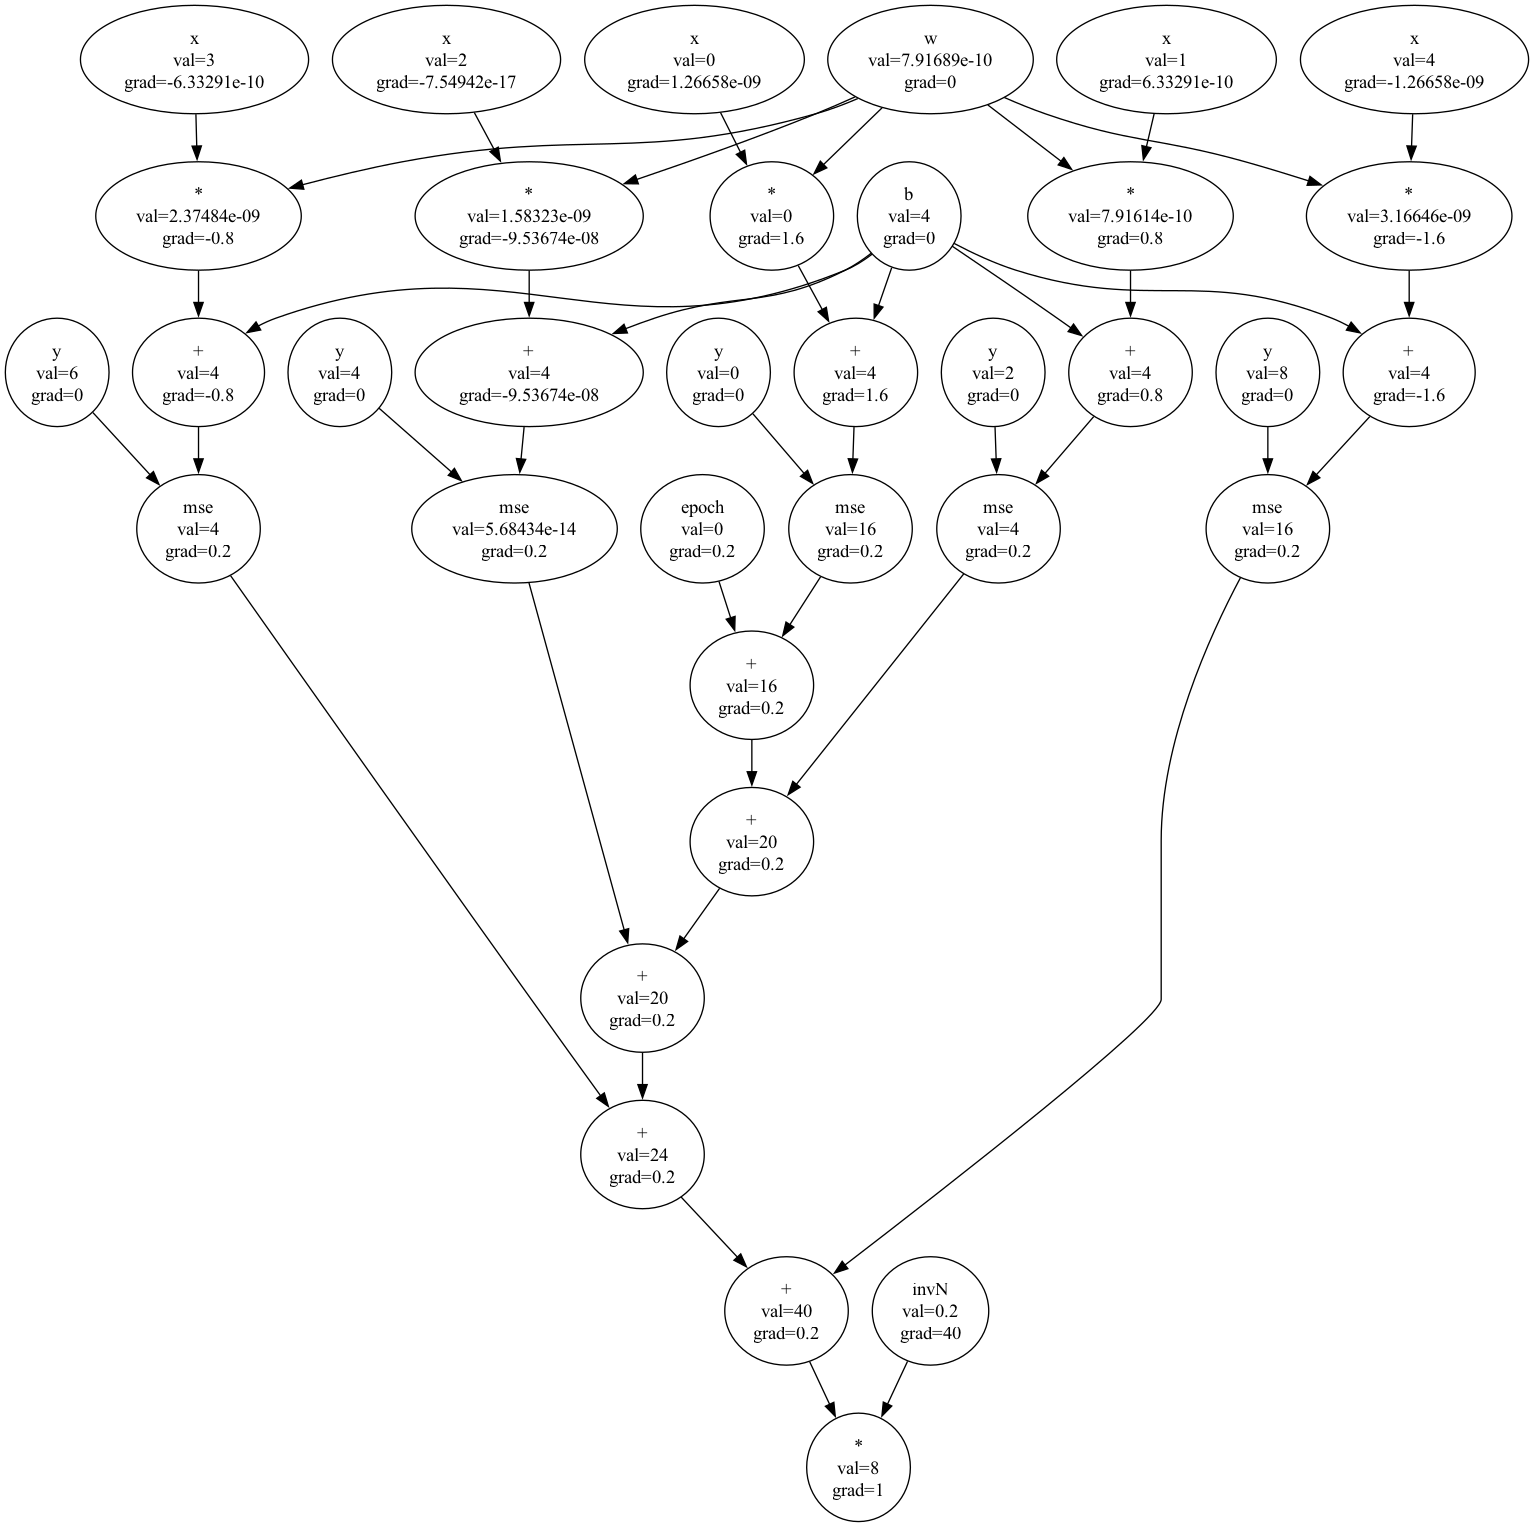
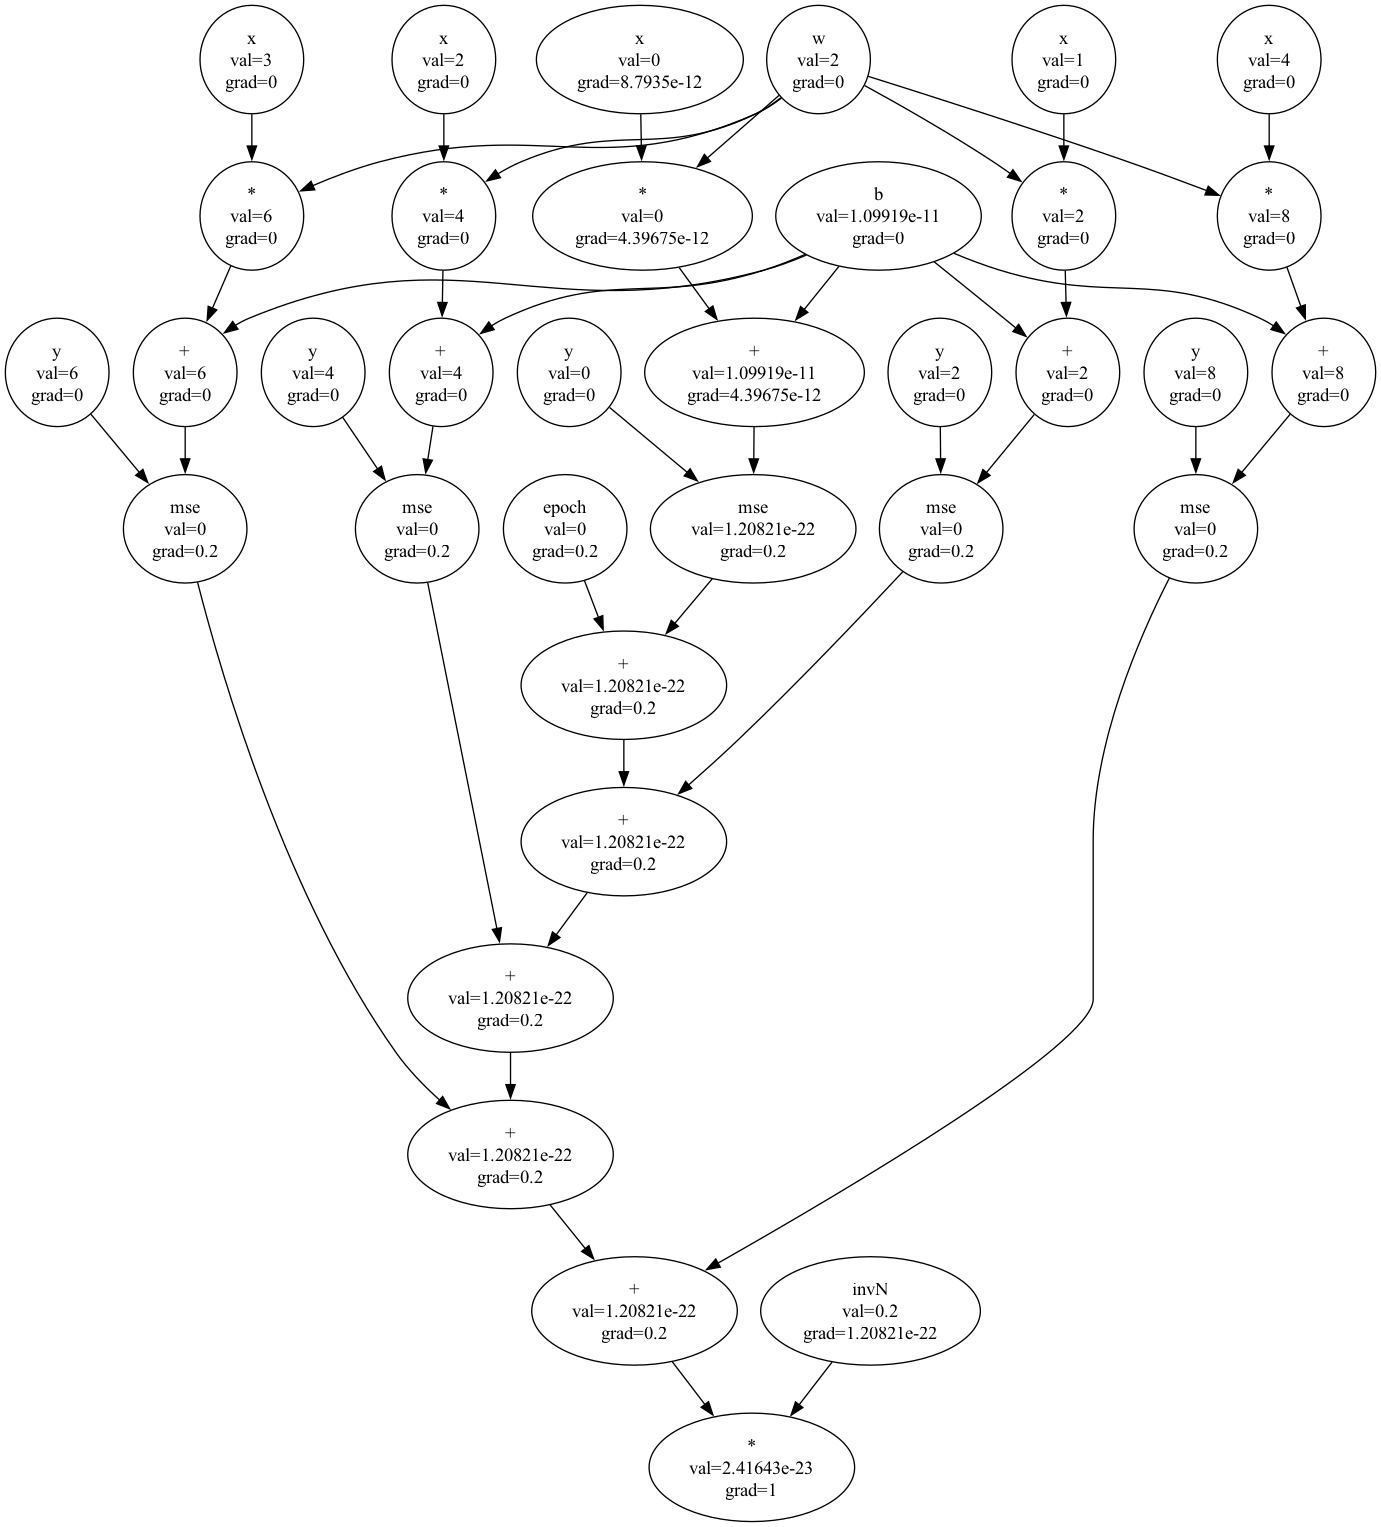
support 0D tensors, bedrock for 2D tensors and MLP layers

diff --git a/src/main.cpp b/src/main.cpp
@@ -73,101 +73,101 @@ int main() {
     // return 0;
 
     // learning y = 2x weights
-    // vector<float> xs = {0.0f, 1.0f, 2.0f, 3.0f, 4.0f};
-    // vector<float> ys = {0.0f, 2.0f, 4.0f, 6.0f, 8.0f};
+    vector<float> xs = {0.0f, 1.0f, 2.0f, 3.0f, 4.0f};
+    vector<float> ys = {0.0f, 2.0f, 4.0f, 6.0f, 8.0f};
 
-    // auto w = Value::create(0.0f, "w");    
-    // auto b = Value::create(0.0f, "b");
+    auto w = Value::create(0.0f, "w");    
+    auto b = Value::create(0.0f, "b");
 
-    // AdamW optim_w(0.01f, w);
-    // AdamW optim_b(0.01f, b);
-    // ValuePtr epoch_loss;
+    AdamW optim_w(0.01f, w);
+    AdamW optim_b(0.01f, b);
+    ValuePtr epoch_loss;
 
-    // int n_epochs = 10000;
+    int n_epochs = 10000;
 
-    // for (int epoch = 0; epoch < n_epochs; ++epoch) {
+    for (int epoch = 0; epoch < n_epochs; ++epoch) {
 
-    //     // zero‐grad
-    //     w->set_grad(0.0f);
-    //     b->set_grad(0.0f);
-    //     epoch_loss = Value::create(0, "epoch");
+        // zero‐grad
+        w->set_grad(0.0f);
+        b->set_grad(0.0f);
+        epoch_loss = Value::create(0, "epoch");
 
-    //     for (size_t i = 0; i < xs.size(); ++i) {
-    //         auto x = xs[i];
-    //         auto y_true = ys[i];
+        for (size_t i = 0; i < xs.size(); ++i) {
+            auto x = xs[i];
+            auto y_true = ys[i];
 
-    //         auto x_val = Value::create(x, "x");
-    //         auto y_val = Value::create(y_true, "y");
+            auto x_val = Value::create(x, "x");
+            auto y_val = Value::create(y_true, "y");
 
-    //         auto lin = Value::add(Value::mult(w, x_val), b);
+            auto lin = Value::add(Value::mult(w, x_val), b);
 
-    //         MSELoss loss_fn(y_val, lin);
-    //         auto loss_i = loss_fn.forward();
+            MSELoss loss_fn(y_val, lin);
+            auto loss_i = loss_fn.forward();
 
-    //         epoch_loss = Value::add(epoch_loss, loss_i);
+            epoch_loss = Value::add(epoch_loss, loss_i);
         
-    //     }
+        }
         
-    //     auto invN = Value::create(1.0f / xs.size(), "invN"); // technically this is a scalar multiplication so no need to support division
-    //     epoch_loss = Value::mult(epoch_loss, invN);
+        auto invN = Value::create(1.0f / xs.size(), "invN"); // technically this is a scalar multiplication so no need to support division
+        epoch_loss = Value::mult(epoch_loss, invN);
 
-    //     epoch_loss->backward();
-    //     optim_w.step();
-    //     optim_b.step();
+        epoch_loss->backward();
+        optim_w.step();
+        optim_b.step();
 
-    //     if (epoch % 50 == 0) {
-    //         cout << "Epoch " << epoch
-    //              << " loss=" << epoch_loss->get_val()
-    //              << "  w=" << w->get_val()
-    //              << "  b=" << b->get_val()
-    //              << "\n";
-    //     }
+        if (epoch % 50 == 0) {
+            cout << "Epoch " << epoch
+                 << " loss=" << epoch_loss->get_val()
+                 << "  w=" << w->get_val()
+                 << "  b=" << b->get_val()
+                 << "\n";
+        }
 
-    //     if (epoch == n_epochs-1) {
-    //          epoch_loss->print();
-    //     }
-    // }
+        if (epoch == n_epochs-1) {
+             epoch_loss->print();
+        }
+    }
 
-    // cout << "\nTrained model: y ≈ "
-    //      << w->get_val() << "·x + " << b->get_val() << "\n";
+    cout << "\nTrained model: y ≈ "
+         << w->get_val() << "·x + " << b->get_val() << "\n";
 
-    // vector<ValuePtr> topo;
-    // unordered_set<Value*> visited;
-    // epoch_loss->topo_sort(topo, visited);
-    // epoch_loss->visualize(topo, "/Users/devpatel/Downloads/development/amd/cpp/microml/viz/graph");
-   
-    // return 0;
-
-    // check operator overloading in native
-    auto a = Value::create(1.0f, "a");
-    auto b = Value::create(2.0f, "b");
-
-    auto c = a + b;            
-    auto d = b - b * a;        
-    auto e = c * d;           
-    auto f = pow(a, b);         
-    auto g = e / f;            
-
-    cout << "Forward results:\n";
-    cout << "  c = a + b = " << c->get_val() << "\n";
-    cout << "  d = b - b*a = " << d->get_val() << "\n";
-    cout << "  e = c*d     = " << e->get_val() << "\n";
-    cout << "  f = a^b     = " << f->get_val() << "\n";
-    cout << "  g = e/f     = " << g->get_val() << "\n\n";
-
-    auto y_true = Value::create(3.0f, "y_true");
-
-    MSELoss loss_fn(y_true, g); // order is ground truth to pred
-    auto loss = loss_fn.forward();
-
-    loss->backward();
-    cout << "After backprop:\n";
-    cout << "  dL/da = " << a->get_grad() << "\n";
-    cout << "  dL/db = " << b->get_grad() << "\n\n";
     vector<ValuePtr> topo;
     unordered_set<Value*> visited;
-    loss->topo_sort(topo, visited);
-    loss->visualize(topo, "viz/operator");
+    epoch_loss->topo_sort(topo, visited);
+    epoch_loss->visualize(topo, "viz/graph");
+   
+    return 0;
+
+    // check operator overloading in native
+    // auto a = Value::create(1.0f, "a");
+    // auto b = Value::create(2.0f, "b");
+
+    // auto c = a + b;            
+    // auto d = b - b * a;        
+    // auto e = c * d;           
+    // auto f = pow(a, b);         
+    // auto g = e / f;            
+
+    // cout << "Forward results:\n";
+    // cout << "  c = a + b = " << c->get_val() << "\n";
+    // cout << "  d = b - b*a = " << d->get_val() << "\n";
+    // cout << "  e = c*d     = " << e->get_val() << "\n";
+    // cout << "  f = a^b     = " << f->get_val() << "\n";
+    // cout << "  g = e/f     = " << g->get_val() << "\n\n";
+
+    // auto y_true = Value::create(3.0f, "y_true");
+
+    // MSELoss loss_fn(y_true, g); // order is ground truth to pred
+    // auto loss = loss_fn.forward();
+
+    // loss->backward();
+    // cout << "After backprop:\n";
+    // cout << "  dL/da = " << a->get_grad() << "\n";
+    // cout << "  dL/db = " << b->get_grad() << "\n\n";
+    // vector<ValuePtr> topo;
+    // unordered_set<Value*> visited;
+    // loss->topo_sort(topo, visited);
+    // loss->visualize(topo, "viz/operator");
 
     return 0;
 }

diff --git a/src/loss.cpp b/src/loss.cpp
@@ -1,76 +1,83 @@
-#include <vector>
-#include <unordered_map>
-#include <string>
-#include <memory>
-#include <cmath>
-#include <functional>
-#include <iostream>
-#include <algorithm> 
-#include "prime.hpp"
 #include "loss.hpp"
+#include "prime.hpp"
+#include <cmath>
+#include <algorithm>
 
+CrossEntropyLoss::CrossEntropyLoss(ValuePtr tgt, ValuePtr pr)
+  : target(std::move(tgt))
+  , pred(std::move(pr))
+  , eps(std::numeric_limits<float>::epsilon())
+{}
 
-float CrossEntropyLoss::grad_calc_local() {
-    float t = target -> get_val();
-    float p = pred -> get_val(); 
-    float grad = (-t/(p+eps)) + ((1-t)/(1-p+eps));
-    return grad;
+float CrossEntropyLoss::grad_calc_local() const {
+    float t = target->get_val();
+    float p = pred->get_val();
+    return (-t / (p + eps)) + ((1 - t) / (1 - p + eps));
 }
 
 ValuePtr CrossEntropyLoss::forward() {
     float t = target->get_val();
     float p = pred->get_val();
-    float loss_val = - (t * log(p + eps)+(1 - t)*log(1 - p + eps));
-
+    float loss_val = - (t * std::log(p + eps) + (1 - t) * std::log(1 - p + eps));
     auto loss_node = Value::create(loss_val, "bce");
+
     ValuePtr T = target, P = pred, L = loss_node;
-    float eps = this->eps;  
-    loss_node->_backward = [T, P, L, eps]() {
+    float local_eps = eps;
+    loss_node->_backward = [T, P, L, local_eps]() {
         float t = T->get_val();
         float p = P->get_val();
-        float grad_local = (-t/(p+eps)) + ((1-t)/(1-p+eps));
-        P->add_grad(grad_local * L->get_grad());
+        float g = (-t / (p + local_eps)) + ((1 - t) / (1 - p + local_eps));
+        P->add_grad(g * L->get_grad());
     };
 
-    loss_node->set_prev(vector<ValuePtr>{target, pred});
-    
+    loss_node->set_prev({target, pred});
     return loss_node;
 }
 
-float MSELoss::grad_calc_local() {
-    float t = target -> get_val();
-    float p = pred -> get_val(); 
-    float grad = 2*(p-t);
-    return grad;
+MSELoss::MSELoss(ValuePtr tgt, ValuePtr pr)
+  : target(std::move(tgt))
+  , pred(std::move(pr))
+{}
+
+float MSELoss::grad_calc_local() const {
+    float t = target->get_val();
+    float p = pred->get_val();
+    return 2.0f * (p - t);
 }
 
 ValuePtr MSELoss::forward() {
-    float t = target -> get_val();
-    float p = pred -> get_val();
-    float loss_val = pow(p-t, 2);
+    float t = target->get_val();
+    float p = pred->get_val();
+    float loss_val = (p - t) * (p - t);
     auto loss_node = Value::create(loss_val, "mse");
+
     ValuePtr T = target, P = pred, L = loss_node;
     loss_node->_backward = [T, P, L]() {
-        float grad_local = 2.0f * (P->get_val() - T->get_val());
-        P->add_grad(grad_local * L->get_grad());
+        float g = 2.0f * (P->get_val() - T->get_val());
+        P->add_grad(g * L->get_grad());
     };
-    loss_node->set_prev(vector<ValuePtr>{target, pred});
-    
+
+    loss_node->set_prev({target, pred});
     return loss_node;
 }
 
-float ReLU::grad_calc_local() {
-    float inp = input->get_val();
-    float grad = (inp > 0.0f ? 1.0f : 0.0f);
-    return grad;
+ReLU::ReLU(ValuePtr inp)
+  : input(std::move(inp))
+{}
+
+float ReLU::grad_calc_local() const {
+    return input->get_val() > 0.0f ? 1.0f : 0.0f;
 }
 
 ValuePtr ReLU::forward() {
-    auto activation_node = Value::create(max((float) 0.0, input->get_val()), "relu");
-    activation_node->_backward = [activation_node, this]() {
-        float grad = grad_calc_local();
-        input->add_grad(grad * activation_node->get_grad());
+    float x = input->get_val();
+    auto node = Value::create(std::max(0.0f, x), "relu");
+    ValuePtr I = input, N = node;
+    node->_backward = [I, N]() {
+        float g = N->get_grad();
+        float grad_local = I->get_val() > 0.0f ? 1.0f : 0.0f;
+        I->add_grad(grad_local * g);
     };
-    activation_node->set_prev(vector<ValuePtr>{input});
-    return activation_node;
+    node->set_prev({input});
+    return node;
 }

diff --git a/src/loss.hpp b/src/loss.hpp
@@ -1,56 +1,38 @@
-#include <vector>
-#include <unordered_map>
-#include <string>
-#include <memory>
-#include <cmath>
+#pragma once
+
 #include <functional>
-#include <iostream>
 #include <limits>
 #include "prime.hpp"
 
-
-class CrossEntropyLoss {        
+class CrossEntropyLoss {
     private:
         ValuePtr target;
         ValuePtr pred;
         float eps;
 
     public:
-        CrossEntropyLoss(ValuePtr target, ValuePtr pred) {
-            this->target = target;
-            this->pred = pred;
-            this->eps = numeric_limits<float>::epsilon();
-        
-        }
+        CrossEntropyLoss(ValuePtr target, ValuePtr pred);
         ValuePtr forward();
-        float grad_calc_local();
-        function<void()> _backward;
+        float grad_calc_local() const;
 };
 
-class MSELoss {        
+class MSELoss {
     private:
         ValuePtr target;
         ValuePtr pred;
 
     public:
-        MSELoss(ValuePtr target, ValuePtr pred) {
-            this->target = target;
-            this->pred = pred;        
-        }
+        MSELoss(ValuePtr target, ValuePtr pred);
         ValuePtr forward();
-        float grad_calc_local();
-        function<void()> _backward;
+        float grad_calc_local() const;
 };
 
-class ReLU {        
+class ReLU {
     private:
         ValuePtr input;
 
     public:
-        ReLU(ValuePtr input) {
-            this->input = input;        
-        }
+        explicit ReLU(ValuePtr input);
         ValuePtr forward();
-        float grad_calc_local();
-        function<void()> _backward;
+        float grad_calc_local() const;
 };

diff --git a/src/mat.hpp b/src/mat.hpp
@@ -24,6 +24,7 @@ public:
     bool is_scalar() const;
     float scalar_value() const;
     Tensor transpose() const;
+    Tensor matmul(Tensor x, Tensor y);
 };
 
 // elementwise operators
